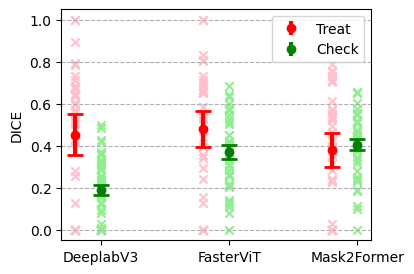
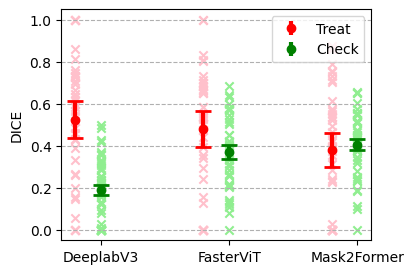
update

Changed region(s): [[0.1449, 0.146, 0.2029, 0.7591], [0.1739, 0.7883, 0.2029, 0.8175]]

diff --git a/src/metrics[wp7]/export_model_metrics.py b/src/metrics[wp7]/export_model_metrics.py
@@ -4,7 +4,7 @@ import os
 class_label = 'Treat'
 common_path = '/data/DATA/Incision_predictions/test-1-213'
 #train_data = 'consensus'
-train_data = 'all'
+train_data = 'consensus'
 Version = 'V2'
 mask_pred_path_deeplab = os.path.join(common_path , 'Deeplab' , train_data, 'mask', class_label)
 mask_pred_path_fasterViT = os.path.join(common_path , 'FasterViT' , train_data, 'mask', class_label)

diff --git a/src/metrics[wp7]/plotting/results_errorbars.py b/src/metrics[wp7]/plotting/results_errorbars.py
@@ -7,8 +7,8 @@ from statistics import stdev as std
 plt.subplots(figsize=(3, 4))
 
 Version = 'V2'
-metric = 'NSD' # DICE
-train_data = 'all' # consensus
+metric = 'DICE' # DICE
+train_data = 'consensus' # consensus
 plt.subplots(figsize=(4, 3))
 
 x_Treat = [1, 2, 3]
